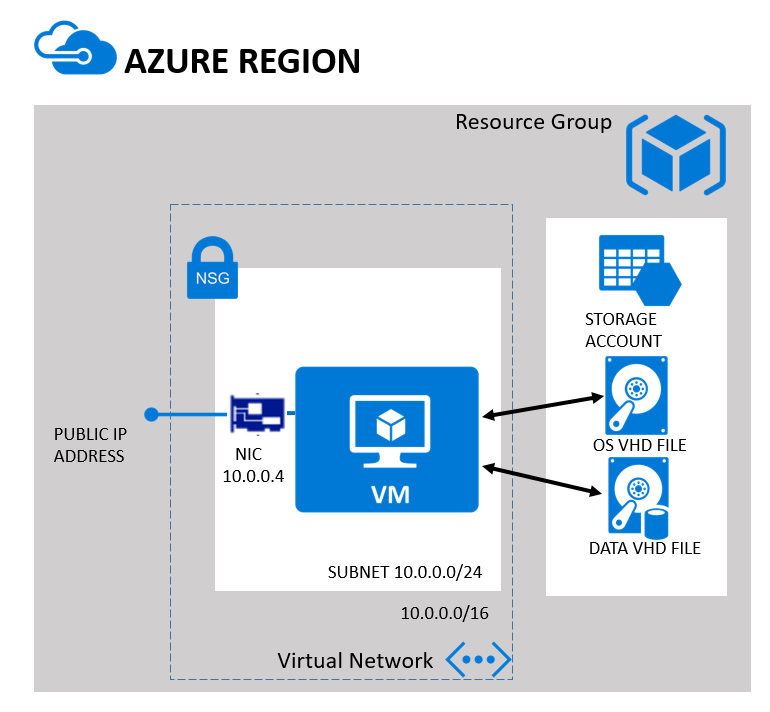
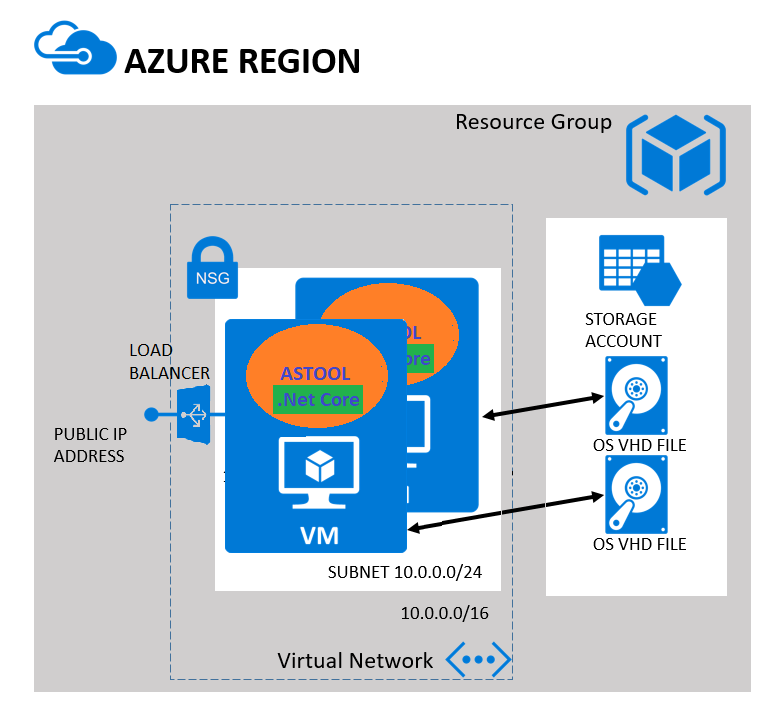
Update readme

Changed region(s): [[0.1558, 0.3708, 0.9039, 0.8034]]

diff --git a/README.md b/README.md
@@ -442,7 +442,7 @@ the binaries will be available under:
 
 ## Building the self-contained binaries on Azure
 
-If you don't have a local machine to generate the binaries, you can use a virtual Machine running in Azure
+If you don't have a local machine to generate the binaries, you can use a virtual Machine running in Azure.
 
 
 ![](https://raw.githubusercontent.com/flecoqui/ASTool/master/Docs/buildvm.png)
@@ -464,48 +464,40 @@ The logs files will be available under /astool/log.
 
 # Deploying ASTOOL in Azure
 
-This template allows you to deploy a simple VM running: </p>
-#### Debian: .Net Core and ASTOOL,
-#### Ubuntu: .Net Core and ASTOOL, 
-#### Centos: .Net Core and ASTOOL, 
-#### Red Hat: .Net Core and ASTOOL,
-#### Windows Server 2016: .Net Core and ASTOOL,
-This will VM will be deployed in the region associated with Resource Group and the VM Size is one of the parameter.
-With Azure CLI you can deploy this VM with 2 command lines:
+## Deploying ASTOOL in a single Virtual Machine
 
+This [Azure Resource Manager template](https://github.com/flecoqui/ASTool/tree/master/Azure/101-vm-astool-release-universal) allow you to deploy a single virtual machine in Azure. You can select the operating system running on this virtual machine, it can be Windows Server 2016, Ubuntu, Debian, Centos or Redhat.
+During the installation of the virtual machine, ASTOOL will be installed as a service, if the virtual machine reboots it will start  the ASTOOL feature define in the configuration associated with the deployment.
+By default this service will launch the 2 Pull features to capture the audio and video chunks of this sample Live asset: http://b028.wpc.azureedge.net/80B028/Samples/a38e6323-95e9-4f1f-9b38-75eba91704e4/5f2ce531-d508-49fb-8152-647eba422aec.ism/manifest during 3600 seconds.
 
 
 ![](https://raw.githubusercontent.com/flecoqui/ASTool/master/Docs/singlevm.png)
 
 
 
+The configuration files ([astool.linux.xml](https://raw.githubusercontent.com/flecoqui/ASTool/master/Azure/101-vm-astool-universal/astool.linux.xml) for Linux and [astool.windows.xml](https://raw.githubusercontent.com/flecoqui/ASTool/master/Azure/101-vm-astool-universal/astool.windows.xml) for Windows) will be stored under: /astool/config
+
+This service will run simulatenously 2 captures, storing the audio and video chunks under /astool/dvr/test1 and /astool/dvr/test2.
+The logs files will be available under /astool/log.
+
+## Deploying ASTOOL in  Virtual Machine Scale Set
+
+This [Azure Resource Manager template](https://github.com/flecoqui/ASTool/tree/master/Azure/101-vm-astool-release-vmss-universal) allow you to deploy by default 2 virtual machines in the same scale set in Azure. You can select the operating system running on this virtual machine, it can be Windows Server 2016, Ubuntu, Debian, Centos or Redhat.
+During the installation of the virtual machine, ASTOOL will be installed as a service, if the virtual machine reboots it will start  the ASTOOL feature define in the configuration associated with the deployment.
+By default on each virtual machine, this service will launch the 2 Pull features to capture the audio and video chunks of this sample Live asset: http://b028.wpc.azureedge.net/80B028/Samples/a38e6323-95e9-4f1f-9b38-75eba91704e4/5f2ce531-d508-49fb-8152-647eba422aec.ism/manifest during 3600 seconds.
+
 
 ![](https://raw.githubusercontent.com/flecoqui/ASTool/master/Docs/vmscaleset.png)
 
 
 
+The configuration files ([astool.linux.xml](https://raw.githubusercontent.com/flecoqui/ASTool/master/Azure/101-vm-astool-universal/astool.linux.xml) for Linux and [astool.windows.xml](https://raw.githubusercontent.com/flecoqui/ASTool/master/Azure/101-vm-astool-universal/astool.windows.xml) for Windows) will be stored under: /astool/config
 
-![](https://raw.githubusercontent.com/flecoqui/ASTool/master/Azure/101-vm-astool-release-universal/Docs/1-architecture.png)
+This service will run simulatenously 2 captures, storing the audio and video chunks under /astool/dvr/test1 and /astool/dvr/test2.
+The logs files will be available under /astool/log.
 
-## CREATE RESOURCE GROUP:
-azure group create "ResourceGroupName" "DataCenterName"
+# Next Steps
 
-For instance:
-
-    azure group create astoolgrpeu2 eastus2
-
-# Getting Started
-
-
-https://docs.microsoft.com/en-us/dotnet/core/windows-prerequisites?tabs=netcore2x
-
-
-https://docs.microsoft.com/en-us/dotnet/core/macos-prerequisites?tabs=netcore2x 
-
-
-https://docs.microsoft.com/en-us/dotnet/core/linux-prerequisites?tabs=netcore2x
-
-
-# Useful resources
-
-
+1. Deploy ASTool as Micro Service in Service Fabric
+2. Deploy ASTool in Docker Containers
+3. Support incoming streams protected with PlayReady 
